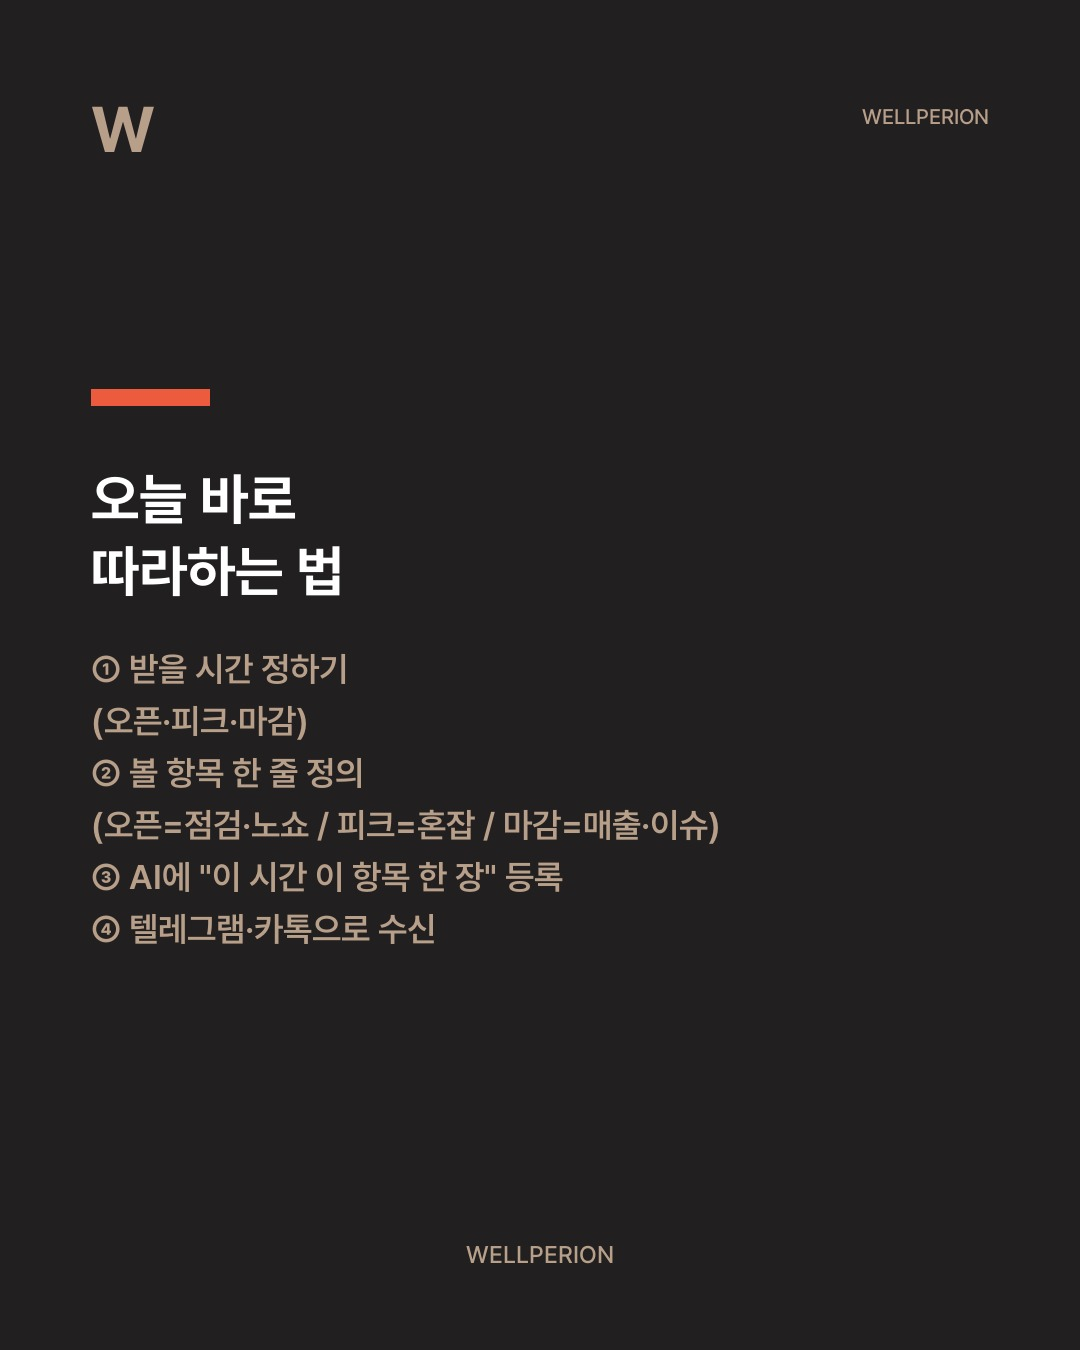
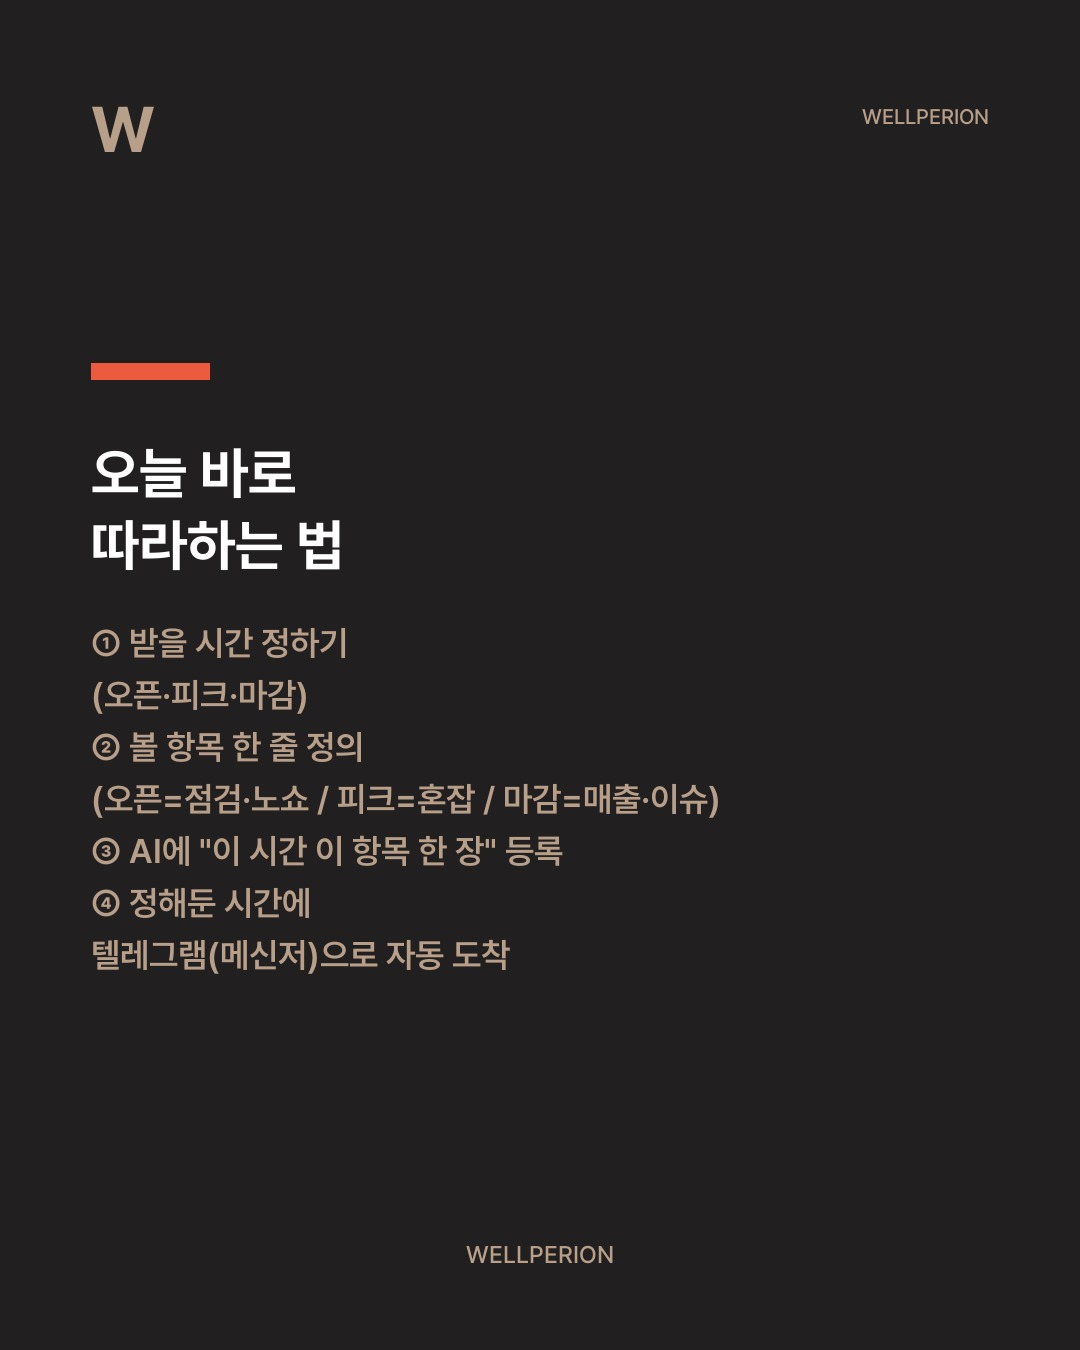
fix(cmo): AI #12편 재작업 — 카톡 자동보고 제거(텔레그램 시간대별 실제 기반) + CTA 저장·댓글·팔로우 정본 적용 (시모·GM 2026-06-12)

Changed region(s): [[0.0611, 0.2489, 0.6722, 0.7156]]

diff --git a/instagram/260612_AI12_시간대별운영현황AI자동보고/build_slides.py b/instagram/260612_AI12_시간대별운영현황AI자동보고/build_slides.py
@@ -5,7 +5,7 @@
 # 흐름: 1 표지 / 2 문제(공감) / 3 발상(전환) / 4 어떻게(실전 따라하기) / 5 결과(before→after) / 6 마무리 CTA
 # 직전 #11(마케팅 업로드 자동화)와 차별화: #11=콘텐츠 1벌→5채널 분배. #12=운영현황을 사람이 확인하러 다니지 말고 AI가 시간대별로 폰에 보고(중복 금지).
 # 톤: 개인계정 GM 1인칭 솔직. 한남동 하이엔드 스포츠클럽 대표 시점. '1인가게/혼자' 프레임 금지. 과장·비현실·설교 금지.
-# 로고: W 심볼만(logo_style="symbol", 개인계정 규칙). CTA: 복합 바이럴(저장+DM+함께 성장).
+# 로고: W 심볼만(logo_style="symbol", 개인계정 규칙). CTA: 저장·댓글·팔로우(도달 유도형, #11부터 정본).
 # 실행: .venv\Scripts\python instagram\260612_AI12_시간대별운영현황AI자동보고\build_slides.py
 import sys
 from pathlib import Path
@@ -31,7 +31,7 @@ MENTIONS = []
 CAPTION = (
     "운영 현황을 쫓아다니지 마세요 — AI가 시간대별로 보고하게 만드는 법이에요.\n\n"
     "예전엔 하루에도 몇 번씩 '지금 잘 돌아가나' 확인했어요.\n"
-    "오픈은 제대로 됐나 전화하고, 피크 때 붐비는지 카톡으로 묻고, 마감엔 매출·이슈를 또 챙기고.\n"
+    "오픈은 제대로 됐나 전화하고, 피크 때 붐비는지 직원에게 묻고, 마감엔 매출·이슈를 또 챙기고.\n"
     "직접 보러 다니거나 직원에게 묻지 않으면 불안했어요. 머릿속이 늘 '지금 괜찮나?'였죠.\n\n"
     "그래서 방향을 뒤집었어요.\n"
     "내가 확인하러 가는 게 아니라, 현황이 정해진 시간에 나한테 오게 만들었어요.\n"
@@ -40,16 +40,15 @@ CAPTION = (
     "① 보고받을 시간을 정해요(오픈 직후·피크·마감).\n"
     "② 각 시간에 볼 항목을 한 줄로 정해요(오픈=시설점검·노쇼 / 피크=혼잡·대기 / 마감=매출·이슈).\n"
     "③ AI한테 \"이 시간에 이 항목만 한 장으로 요약해서 보내줘\"라고 등록해요.\n"
-    "④ 텔레그램이나 카톡으로 받아요.\n\n"
+    "④ 정해둔 시간에 텔레그램(메신저 봇)으로 자동 도착해요.\n\n"
     "지금은 폰만 열면 오픈·피크·마감이 알아서 와 있어요.\n"
     "확인하러 다니던 하루가 사라지고, 저는 이상한 신호만 챙기면 돼요.\n"
     "현황을 쫓는 대신 결정에 시간을 써요.\n\n"
     "딱 하나만 — 오늘 마감 보고부터 AI한테 한 장 요약으로 시켜보세요. 그게 시작이에요.\n\n"
-    "AI를 다루는 대표가 살아남습니다.\n"
-    "도움이 됐다면 저장해두고 딱 하나만 따라 해보세요.\n"
-    "혼자 고민 말고 DM 주세요 — 아는 선에서 같이 풀어드릴게요.\n"
-    "완벽하진 않아도, 함께 성장합시다.\n\n"
-    "#AI #AI활용 #스포츠클럽 #리더십 #조직운영 #한남동 #웰페리온"
+    "📌 나중에 따라하려면 저장\n"
+    "💬 어느 시간대부터 자동 보고받고 싶으세요? 댓글로 알려주세요\n"
+    "👀 이런 AI 활용기 계속 보고 싶으면 팔로우\n\n"
+    "#AI #AI활용 #스포츠클럽 #리더십 #조직운영 #운영자동화 #한남동 #웰페리온"
 )
 
 SLIDES = [
@@ -67,7 +66,7 @@ SLIDES = [
     ),
     dict(  # 4장 어떻게 — 실전 따라하기 4단계
         kor_title="오늘 바로\n따라하는 법",
-        body="① 받을 시간 정하기\n(오픈·피크·마감)\n② 볼 항목 한 줄 정의\n(오픈=점검·노쇼 / 피크=혼잡 / 마감=매출·이슈)\n③ AI에 \"이 시간 이 항목 한 장\" 등록\n④ 텔레그램·카톡으로 수신",
+        body="① 받을 시간 정하기\n(오픈·피크·마감)\n② 볼 항목 한 줄 정의\n(오픈=점검·노쇼 / 피크=혼잡 / 마감=매출·이슈)\n③ AI에 \"이 시간 이 항목 한 장\" 등록\n④ 정해둔 시간에\n텔레그램(메신저)으로 자동 도착",
     ),
     dict(  # 5장 결과 — before→after
         kor_title="지금은 폰만 열면\n와 있어요",
@@ -115,16 +114,16 @@ def main() -> None:
         paths.append(out)
         print(f"[OK] {out.name} - {r['layout']} ({r['size_kb']}KB)")
 
-    # 마지막 장 = 시그니처 슬로건 고정 + 복합 바이럴 CTA 4줄 (로드맵 SOP 불변)
+    # 마지막 장 = 편별 제목(실전 노선) + 저장·댓글·팔로우 CTA (2026-06-10 GM #11부터 정본 — DM/슬로건 폐기)
     last_out = OUT / f"post_{len(SLIDES) + 1}.jpg"
     r = compose_text_slide(
         output=last_out,
         brand_key="main",
         logo_style=LOGO_STYLE,
-        kor_title="AI를 다루는 대표가\n살아남는다",
-        body="막막하면 일단 저장해두세요.\n딱 하나만 따라 해도 바뀝니다.\n혼자 고민 말고 DM 주세요.\n아는 선에서 같이 풀어드릴게요.",
+        kor_title="시간만 정해두면\nAI가 보고합니다",
+        body="나중에 따라하려면 저장\n어느 시간대부터 받고 싶은지\n댓글로 알려주세요\n이런 AI 활용기 계속 보고 싶으면\n팔로우",
     )
-    print(f"[OK] {last_out.name} - slogan/CTA card ({r['size_kb']}KB)")
+    print(f"[OK] {last_out.name} - title/CTA card ({r['size_kb']}KB)")
     paths.append(last_out)
 
     montage = OUT / f"_검수_미리보기_{len(paths)}장.png"

diff --git a/instagram/260612_AI12_시간대별운영현황AI자동보고/큐레이션_추천.md b/instagram/260612_AI12_시간대별운영현황AI자동보고/큐레이션_추천.md
@@ -9,7 +9,7 @@
 운영 현황을 쫓아다니지 마세요 — AI가 시간대별로 보고하게 만드는 법이에요.
 
 예전엔 하루에도 몇 번씩 '지금 잘 돌아가나' 확인했어요.
-오픈은 제대로 됐나 전화하고, 피크 때 붐비는지 카톡으로 묻고, 마감엔 매출·이슈를 또 챙기고.
+오픈은 제대로 됐나 전화하고, 피크 때 붐비는지 직원에게 묻고, 마감엔 매출·이슈를 또 챙기고.
 직접 보러 다니거나 직원에게 묻지 않으면 불안했어요. 머릿속이 늘 '지금 괜찮나?'였죠.
 
 그래서 방향을 뒤집었어요.
@@ -20,7 +20,7 @@
 ① 보고받을 시간을 정해요(오픈 직후·피크·마감).
 ② 각 시간에 볼 항목을 한 줄로 정해요(오픈=시설점검·노쇼 / 피크=혼잡·대기 / 마감=매출·이슈).
 ③ AI한테 "이 시간에 이 항목만 한 장으로 요약해서 보내줘"라고 등록해요.
-④ 텔레그램이나 카톡으로 받아요.
+④ 정해둔 시간에 텔레그램(메신저 봇)으로 자동 도착해요.
 
 지금은 폰만 열면 오픈·피크·마감이 알아서 와 있어요.
 확인하러 다니던 하루가 사라지고, 저는 이상한 신호만 챙기면 돼요.
@@ -28,12 +28,11 @@
 
 딱 하나만 — 오늘 마감 보고부터 AI한테 한 장 요약으로 시켜보세요. 그게 시작이에요.
 
-AI를 다루는 대표가 살아남습니다.
-도움이 됐다면 저장해두고 딱 하나만 따라 해보세요.
-혼자 고민 말고 DM 주세요 — 아는 선에서 같이 풀어드릴게요.
-완벽하진 않아도, 함께 성장합시다.
+📌 나중에 따라하려면 저장
+💬 어느 시간대부터 자동 보고받고 싶으세요? 댓글로 알려주세요
+👀 이런 AI 활용기 계속 보고 싶으면 팔로우
 
-#AI #AI활용 #스포츠클럽 #리더십 #조직운영 #한남동 #웰페리온
+#AI #AI활용 #스포츠클럽 #리더십 #조직운영 #운영자동화 #한남동 #웰페리온
 
 ### 위치
 웰페리온 스포츠클럽
